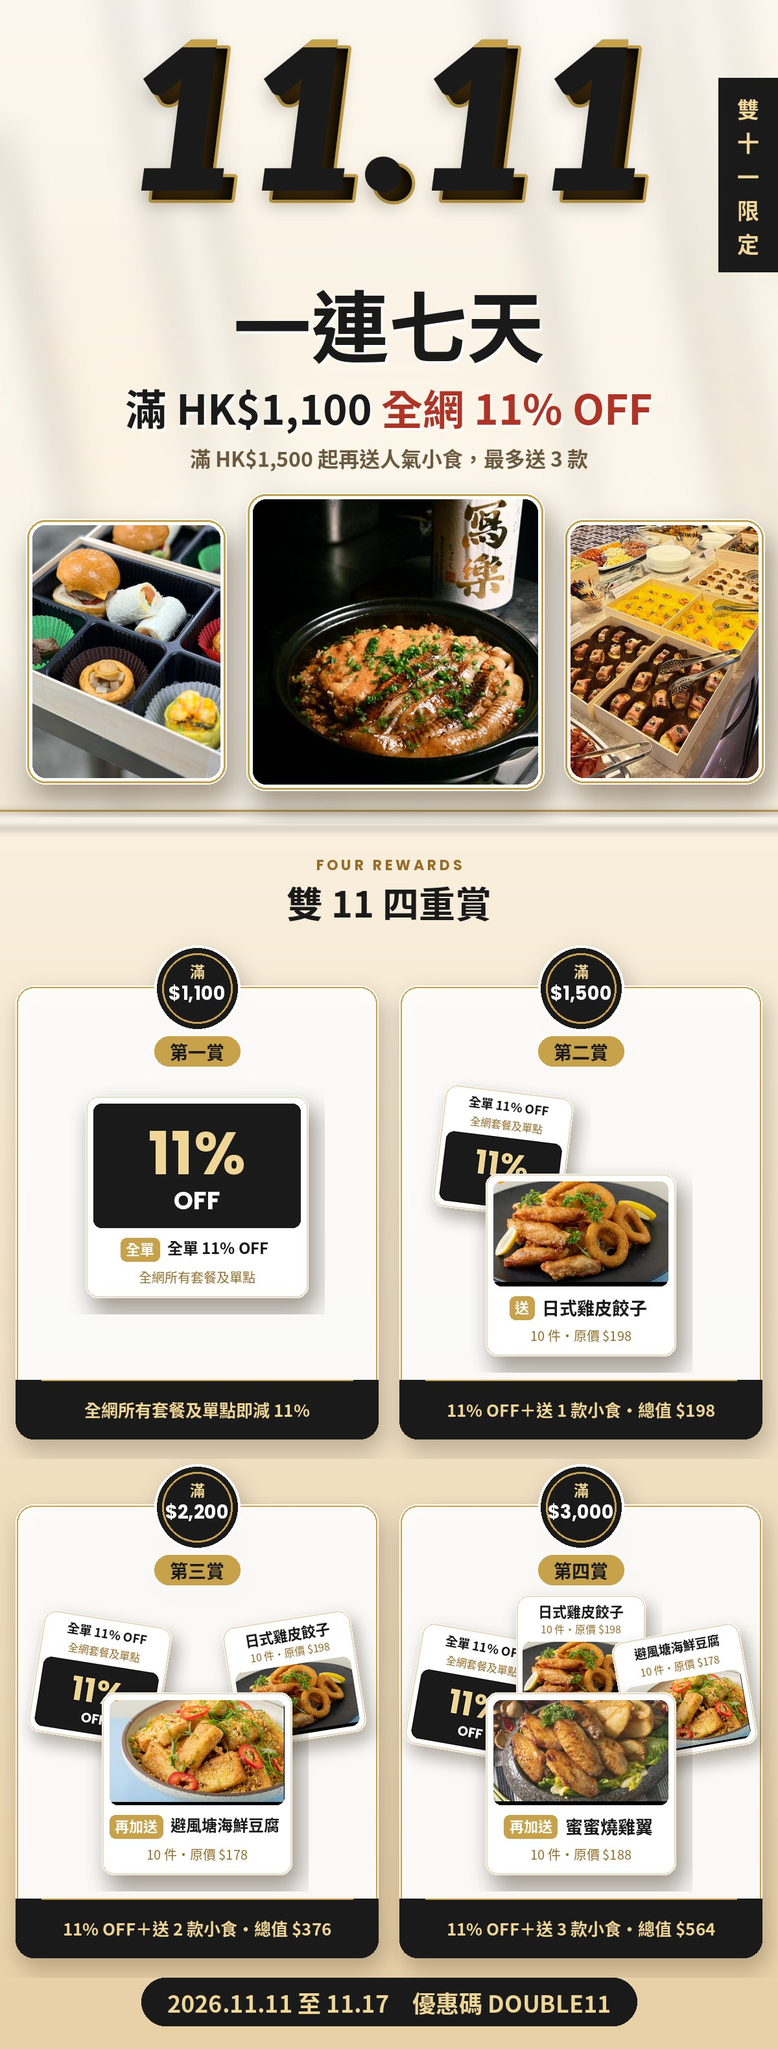
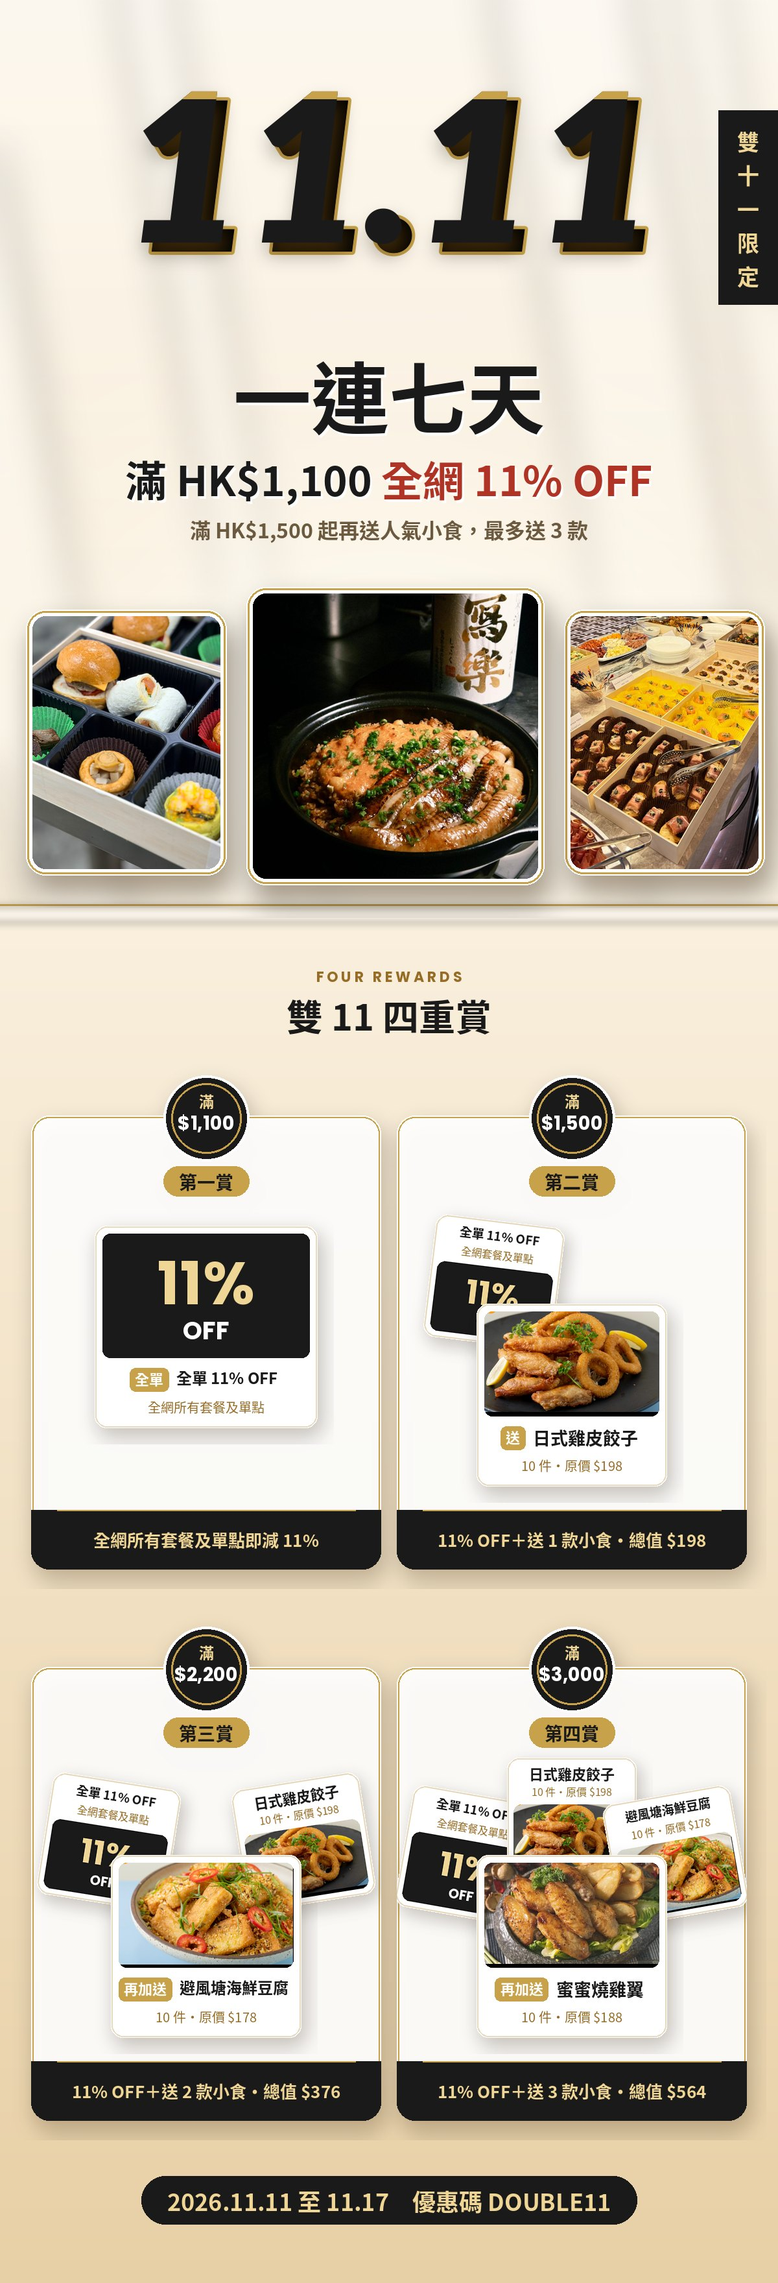
b

diff --git a/1111-2026/make_kv3_backup_v4.py b/1111-2026/make_kv3_backup_v4.py
@@ -1,0 +1,241 @@
+# -*- coding: utf-8 -*-
+"""雙 11 KV v3：方案 3 字體＋兩張完整產品主圖＋四重賞贈品列（圓章完整）
+來源圖：/tmp/kv（網站下載＋客戶提供餐盒相 bento.jpg）；輸出 img/d11-kv.jpg"""
+import os
+from PIL import Image, ImageDraw, ImageFilter, ImageFont, ImageChops
+H = os.path.dirname(os.path.abspath(__file__))
+SRC = '/tmp/kv/'
+W, HH = 1200, 3160
+CJK = '/usr/share/fonts/opentype/noto/NotoSansCJK-Bold.ttc'
+CJKR = '/usr/share/fonts/opentype/noto/NotoSansCJK-Regular.ttc'
+POPB = '/usr/share/fonts/truetype/google-fonts/Poppins-Bold.ttf'
+LATO_BI = '/usr/share/fonts/truetype/lato/Lato-BlackItalic.ttf'
+def f_cjk(s, bold=True): return ImageFont.truetype(CJK if bold else CJKR, s, index=4)
+def f_pop(s): return ImageFont.truetype(POPB, s)
+GOLD_D, GOLD, GOLD_L, INK, RED = (150, 108, 38), (200, 162, 74), (240, 214, 150), (26, 26, 26), (176, 52, 38)
+def lerp(a, b, t): return tuple(int(a[i] + (b[i] - a[i]) * t) for i in range(3))
+def layer(): return Image.new('RGBA', (W, HH), (0, 0, 0, 0))
+SY = 1250
+
+def background():
+    bg = Image.new('RGB', (W, HH)); dd = ImageDraw.Draw(bg)
+    top, mid, bot = (253, 248, 239), (243, 226, 196), (226, 198, 150)
+    for y in range(HH):
+        t = y / HH
+        dd.line([(0, y), (W, y)], fill=lerp(top, mid, t / .6) if t < .6 else lerp(mid, bot, (t - .6) / .4))
+    bg = bg.convert('RGBA')
+    beams = layer(); d = ImageDraw.Draw(beams)
+    for x0, w, a in [(-200, 160, 70), (180, 90, 55), (760, 220, 60), (1040, 80, 45)]:
+        d.polygon([(x0, 0), (x0 + w, 0), (x0 + w + 600, HH), (x0 + 600, HH)], fill=(255, 255, 255, a))
+    bg = Image.alpha_composite(bg, beams.filter(ImageFilter.GaussianBlur(28)))
+    g = Image.new('RGBA', (W, HH), (255, 252, 244, 0)); m = Image.new('L', (W, HH), 0)
+    ImageDraw.Draw(m).ellipse([600 - 520, 1010 - 360, 600 + 520, 1010 + 360], fill=235)
+    g.putalpha(m.filter(ImageFilter.GaussianBlur(170))); bg = Image.alpha_composite(bg, g)
+    st = layer(); sd = ImageDraw.Draw(st)
+    for y in range(SY, HH):
+        sd.line([(0, y), (W, y)], fill=lerp((250, 240, 222), (232, 208, 166), (y - SY) / (HH - SY)) + (255,))
+    bg = Image.alpha_composite(bg, st); ImageDraw.Draw(bg).line([(0, SY), (W, SY)], fill=GOLD + (255,), width=3)
+    hl = layer(); ImageDraw.Draw(hl).rectangle([0, SY + 3, W, SY + 26], fill=(255, 255, 255, 120))
+    return Image.alpha_composite(bg, hl.filter(ImageFilter.GaussianBlur(6)))
+
+def title(bg):  # 方案 3：粗體雙層
+    f = ImageFont.truetype(LATO_BI, 320); bb = f.getbbox('11.11')
+    tx, ty = (W - (bb[2] - bb[0])) // 2 - bb[0], 60 - bb[1]
+    d = ImageDraw.Draw(bg); d.text((tx + 16, ty + 14), '11.11', font=f, fill=(0, 0, 0, 0), stroke_width=5, stroke_fill=GOLD)
+    sh = layer(); ImageDraw.Draw(sh).text((tx + 6, ty + 18), '11.11', font=f, fill=(60, 40, 10, 90))
+    bg = Image.alpha_composite(bg, sh.filter(ImageFilter.GaussianBlur(14)))
+    ImageDraw.Draw(bg).text((tx, ty), '11.11', font=f, fill=INK)
+    m = Image.new('L', (W, HH), 0); ImageDraw.Draw(m).text((tx, ty), '11.11', font=f, fill=255)
+    hi = Image.new('RGBA', (W, HH), (0, 0, 0, 0)); ImageDraw.Draw(hi).rectangle([0, ty + bb[1], W, ty + bb[1] + 12], fill=GOLD + (255,))
+    hi.putalpha(ImageChops.multiply(hi.getchannel('A'), m))
+    return Image.alpha_composite(bg, hi)
+
+def line(d, parts, font, y, sh=True):
+    total = sum(d.textlength(p, font=font) for p, _ in parts); x = (W - total) / 2
+    for p, c in parts:
+        if sh: d.text((x + 3, y + 4), p, font=font, fill=(255, 255, 255))
+        d.text((x, y), p, font=font, fill=c); x += d.textlength(p, font=font)
+
+def headline(bg):
+    d = ImageDraw.Draw(bg)
+    line(d, [('一連七天', INK)], f_cjk(120), 410)
+    line(d, [('滿 HK$1,100 ', INK), ('全網 11% OFF', RED)], f_cjk(64), 580)
+    fs = f_cjk(32); sub = '滿 HK$1,500 起再送人氣小食，最多送 3 款'
+    d.text(((W - d.textlength(sub, font=fs)) / 2, 682), sub, font=fs, fill=(107, 90, 63))
+    return bg
+
+def framed(im, w, rot, border=16):
+    im = im.resize((w, int(w * im.height / im.width)), Image.LANCZOS).convert('RGBA')
+    m = Image.new('L', im.size, 0); ImageDraw.Draw(m).rounded_rectangle([0, 0, im.width - 1, im.height - 1], 18, fill=255); im.putalpha(m)
+    fw, fh = im.width + border * 2, im.height + border * 2
+    fr = Image.new('RGBA', (fw, fh), (0, 0, 0, 0))
+    mk = Image.new('L', (fw, fh), 0); ImageDraw.Draw(mk).rounded_rectangle([0, 0, fw - 1, fh - 1], 28, fill=255)
+    b = Image.new('RGBA', (fw, fh), (255, 255, 255, 255)); b.putalpha(mk); fr.alpha_composite(b)
+    ImageDraw.Draw(fr).rounded_rectangle([3, 3, fw - 4, fh - 4], 26, outline=GOLD, width=3)
+    fr.alpha_composite(im, (border, border))
+    fr = fr.rotate(rot, resample=Image.BICUBIC, expand=True)
+    s = Image.new('RGBA', (fr.width + 100, fr.height + 100), (0, 0, 0, 0))
+    s.paste((70, 45, 15, 120), (62, 78), fr.getchannel('A')); s = s.filter(ImageFilter.GaussianBlur(20)); s.alpha_composite(fr, (50, 50))
+    return s
+
+def _src3():
+    pot = Image.open(SRC + 'd11src-c3.jpg').convert('RGB').crop((120, 585, 1600, 1600))
+    bento = Image.open(SRC + 'bento.jpg').convert('RGB').crop((0, 160, 1200, 1600))
+    buf = Image.open(SRC + 'photo3.jpg').convert('RGB').crop((0, 820, 1920, 2560))
+    return pot, bento, buf
+def fit(im, w, h):  # 置中裁切到指定比例
+    r = w / h
+    if im.width / im.height > r:
+        nw = int(im.height * r); x = (im.width - nw) // 2; im = im.crop((x, 0, x + nw, im.height))
+    else:
+        nh = int(im.width / r); y = (im.height - nh) // 2; im = im.crop((0, y, im.width, y + nh))
+    return im.resize((w, h), Image.LANCZOS)
+def tile(im, w, h, radius=20, border=10, rot=0, shadow=True):
+    im = fit(im, w, h).convert('RGBA')
+    m = Image.new('L', im.size, 0); ImageDraw.Draw(m).rounded_rectangle([0, 0, w - 1, h - 1], radius, fill=255); im.putalpha(m)
+    fw, fh = w + 2 * border, h + 2 * border
+    fr = Image.new('RGBA', (fw, fh), (0, 0, 0, 0))
+    mk = Image.new('L', (fw, fh), 0); ImageDraw.Draw(mk).rounded_rectangle([0, 0, fw - 1, fh - 1], radius + border, fill=255)
+    bb = Image.new('RGBA', (fw, fh), (255, 255, 255, 255)); bb.putalpha(mk); fr.alpha_composite(bb)
+    ImageDraw.Draw(fr).rounded_rectangle([2, 2, fw - 3, fh - 3], radius + border - 2, outline=GOLD, width=3)
+    fr.alpha_composite(im, (border, border))
+    if rot: fr = fr.rotate(rot, resample=Image.BICUBIC, expand=True)
+    s = Image.new('RGBA', (fr.width + 100, fr.height + 100), (0, 0, 0, 0))
+    if shadow: s.paste((70, 45, 15, 115), (60, 76), fr.getchannel('A')); s = s.filter(ImageFilter.GaussianBlur(20))
+    s.alpha_composite(fr, (50, 50)); return s
+def put(bg, t, x, y): bg.alpha_composite(t, (x - 50, y - 50))
+
+HERO_MODE = os.environ.get('HERO', 'A')
+def heroes(bg):
+    pot, bento, buf = _src3()
+    if HERO_MODE == 'A':   # 三聯直幅：中間較大較高
+        pot2 = Image.open(SRC + 'pot1024.jpg').convert('RGB')
+        put(bg, tile(bento, 290, 390, rot=0), 40, 800)
+        put(bg, tile(buf, 290, 390, rot=0), 870, 800)
+        put(bg, tile(pot2, 440, 440, rot=0), 380, 760)
+    elif HERO_MODE == 'B': # 編輯式拼貼：左大圖＋右兩格，直角對齊
+        put(bg, tile(pot, 660, 480, radius=14), 40, 750)
+        put(bg, tile(bento, 420, 226, radius=14), 730, 750)
+        put(bg, tile(buf, 420, 226, radius=14), 730, 1004)
+    else:                  # 扇形疊卡：三張打斜重疊，中間最前
+        put(bg, tile(bento, 340, 420, rot=9), 700, 760)
+        put(bg, tile(buf, 340, 420, rot=-9), 70, 760)
+        put(bg, tile(pot, 480, 400, rot=0), 360, 790)
+    return bg
+
+ITEMS = {
+ 'off': None,
+ 'a1600': ('d11src-g1.png', (90, 90, 1042, 640), '日式雞皮餃子', 198),
+ 'a1500': ('d11src-g3.png', (100, 90, 1042, 640), '避風塘海鮮豆腐', 178),
+ 'a0500': ('d11src-g2.jpg', (40, 60, 1024, 630), '蜜蜜燒雞翼', 188),
+}
+def _photo(key, w, h):
+    src, crop, _, _ = ITEMS[key]
+    im = Image.open(SRC + src).convert('RGB').crop(crop)
+    th = int(w * im.height / im.width); im = im.resize((w, th), Image.LANCZOS)
+    top = max(0, (th - h) // 2); im = im.crop((0, top, w, top + h)).convert('RGBA')
+    m = Image.new('L', im.size, 0); ImageDraw.Draw(m).rounded_rectangle([0, 0, w - 1, h - 1], 12, fill=255); im.putalpha(m); return im
+def _off_block(d, x, y, w, h, big):
+    d.rounded_rectangle([x, y, x + w - 1, y + h - 1], 12, fill=INK)
+    f1 = f_pop(int(h * .48)); t = '11%'; d.text((x + (w - d.textlength(t, font=f1)) / 2, y + h * .06), t, font=f1, fill=GOLD_L)
+    f2 = f_pop(int(h * .2)); t = 'OFF'; d.text((x + (w - d.textlength(t, font=f2)) / 2, y + h * .64), t, font=f2, fill=(255, 255, 255))
+def _card_canvas(cw, ch):
+    c = Image.new('RGBA', (cw, ch), (0, 0, 0, 0)); mk = Image.new('L', (cw, ch), 0)
+    ImageDraw.Draw(mk).rounded_rectangle([0, 0, cw - 1, ch - 1], 18, fill=255)
+    b = Image.new('RGBA', (cw, ch), (255, 255, 255, 255)); b.putalpha(mk); c.alpha_composite(b)
+    ImageDraw.Draw(c).rounded_rectangle([1, 1, cw - 2, ch - 2], 18, outline=(232, 218, 190), width=2); return c
+def back_card(key, w=180):  # 後排：標題在上，壓在前卡後仍看得到
+    pad = 10; ph = int(w * .6); cap = 62; cw, ch = w + 2 * pad, cap + ph + 2 * pad
+    c = _card_canvas(cw, ch); d = ImageDraw.Draw(c)
+    if key == 'off':
+        name, sub = '全單 11% OFF', '全網套餐及單點'
+    else:
+        name, sub = ITEMS[key][2], f'10 件・原價 ${ITEMS[key][3]}'
+    fn = f_cjk(22 if len(name) <= 6 else 19); fs = f_cjk(16, False)
+    d.text(((cw - d.textlength(name, font=fn)) / 2, pad - 2), name, font=fn, fill=INK)
+    d.text(((cw - d.textlength(sub, font=fs)) / 2, pad + 30), sub, font=fs, fill=GOLD_D)
+    if key == 'off': _off_block(d, pad, pad + cap, w, ph, False)
+    else: c.alpha_composite(_photo(key, w, ph), (pad, pad + cap))
+    return c
+def front_card(key, verb, w=260):
+    pad = 12; ph = int(w * .6); lab = 96; cw, ch = w + 2 * pad, ph + 2 * pad + lab
+    c = _card_canvas(cw, ch); d = ImageDraw.Draw(c)
+    if key == 'off':
+        _off_block(d, pad, pad, w, ph, True); name, sub = '全單 11% OFF', '全網所有套餐及單點'
+    else:
+        c.alpha_composite(_photo(key, w, ph), (pad, pad)); name, sub = ITEMS[key][2], f'10 件・原價 ${ITEMS[key][3]}'
+    fv = f_cjk(22); fn = f_cjk(27 if len(name) <= 6 else 24)
+    tw = d.textlength(verb, font=fv); nw = d.textlength(name, font=fn)
+    x = (cw - (tw + 16 + 12 + nw)) / 2; y = pad + ph + 12
+    d.rounded_rectangle([x - 4, y + 3, x + tw + 12, y + 39], 9, fill=GOLD); d.text((x + 4, y + 3), verb, font=fv, fill=(255, 255, 255))
+    d.text((x + tw + 24, y), name, font=fn, fill=INK)
+    fs = f_cjk(20, False); d.text(((cw - d.textlength(sub, font=fs)) / 2, y + 48), sub, font=fs, fill=GOLD_D)
+    return c
+def _float(c, rot, blur=12, off=(8, 14), alpha=95):
+    c = c.rotate(rot, resample=Image.BICUBIC, expand=True)
+    s = Image.new('RGBA', (c.width + 50, c.height + 50), (0, 0, 0, 0))
+    s.paste((70, 45, 15, alpha), (25 + off[0], 25 + off[1]), c.getchannel('A')); s = s.filter(ImageFilter.GaussianBlur(blur)); s.alpha_composite(c, (25, 25)); return s
+TIER = [  # (第幾賞, 金額, 後排, 前卡, 動詞, 總結)
+ ('第一賞', '1,100', [], 'off', '全單', '全網所有套餐及單點即減 11%'),
+ ('第二賞', '1,500', ['off'], 'a1600', '送', '11% OFF＋送 1 款小食・總值 $198'),
+ ('第三賞', '2,200', ['off', 'a1600'], 'a1500', '再加送', '11% OFF＋送 2 款小食・總值 $376'),
+ ('第四賞', '3,000', ['off', 'a1600', 'a1500'], 'a0500', '再加送', '11% OFF＋送 3 款小食・總值 $564'),
+]
+BACK_POS = {0: [], 1: [(-120, 10, -7)], 2: [(-150, 20, -9), (150, 20, 9)], 3: [(-160, 40, -10), (0, 0, 0), (160, 40, 10)]}
+PW, PH = 560, 700
+def panel(lv, amt, backs, front, verb, summ):
+    p = Image.new('RGBA', (PW, PH + 80), (0, 0, 0, 0)); T = 80
+    mk = Image.new('L', p.size, 0); ImageDraw.Draw(mk).rounded_rectangle([0, T, PW - 1, T + PH - 1], 28, fill=255)
+    b = Image.new('RGBA', p.size, (255, 255, 255, 235)); b.putalpha(ImageChops.multiply(mk, Image.new('L', p.size, 235))); p.alpha_composite(b)
+    ImageDraw.Draw(p).rounded_rectangle([2, T + 2, PW - 3, T + PH - 3], 26, outline=GOLD, width=2)
+    cx = PW // 2; top = T + 140
+    for key, (dx, dy, r) in zip(backs, BACK_POS[len(backs)]):
+        c = _float(back_card(key), r); p.alpha_composite(c, (int(cx + dx - c.width / 2), top + dy - 25))
+    fy = top + (150 if backs else 30)
+    c = _float(front_card(front, verb, 270 if backs else 320), 0, 16, (10, 18), 120); p.alpha_composite(c, (int(cx - c.width / 2), fy - 25))
+    d = ImageDraw.Draw(p)
+    # 底部深色資訊條（另一層背景）
+    band = Image.new('RGBA', p.size, (0, 0, 0, 0)); bd = ImageDraw.Draw(band)
+    bd.rounded_rectangle([0, T + PH - 92, PW - 1, T + PH - 1], 28, fill=INK + (255,)); bd.rectangle([0, T + PH - 92, PW - 1, T + PH - 60], fill=INK + (255,))
+    band.putalpha(ImageChops.multiply(band.getchannel('A'), mk)); p.alpha_composite(band); d = ImageDraw.Draw(p)
+    d.line([(40, T + PH - 92), (PW - 40, T + PH - 92)], fill=GOLD, width=2)
+    fs = f_cjk(26); d.text(((PW - d.textlength(summ, font=fs)) / 2, T + PH - 66), summ, font=fs, fill=GOLD_L)
+    # 第幾賞：放在圓章下面，金色膠囊突出
+    fl = f_cjk(28); lw = d.textlength(lv, font=fl); ly = T + 78
+    d.rounded_rectangle([cx - lw / 2 - 24, ly, cx + lw / 2 + 24, ly + 46], 23, fill=GOLD)
+    d.text((cx - lw / 2, ly + 3), lv, font=fl, fill=INK)
+    R = 62; sx, sy = cx, T + 4
+    d.ellipse([sx - R - 4, sy - R - 4, sx + R + 4, sy + R + 4], fill=(255, 255, 255))
+    d.ellipse([sx - R, sy - R, sx + R, sy + R], fill=INK); d.ellipse([sx - R + 8, sy - R + 8, sx + R - 8, sy + R - 8], outline=GOLD, width=3)
+    fa, fb = f_cjk(23), f_pop(29)
+    d.text((sx - d.textlength('滿', font=fa) / 2, sy - 44), '滿', font=fa, fill=GOLD_L)
+    d.text((sx - d.textlength('$' + amt, font=fb) / 2, sy - 13), '$' + amt, font=fb, fill=(255, 255, 255))
+    return p
+ROW_Y = [1440, 2240]
+def rewards(bg):
+    d = ImageDraw.Draw(bg)
+    fe = f_pop(22); s = 'F O U R   R E W A R D S'
+    d.text(((W - d.textlength(s, font=fe)) / 2, 1318), s, font=fe, fill=GOLD_D)
+    line(d, [('雙 11 四重賞', INK)], f_cjk(56), 1350, sh=False)
+    pos = [(24, ROW_Y[0]), (616, ROW_Y[0]), (24, ROW_Y[1]), (616, ROW_Y[1])]
+    for t, (x, y) in zip(TIER, pos):
+        p = panel(*t); sh = Image.new('RGBA', (p.width + 60, p.height + 60), (0, 0, 0, 0))
+        sh.paste((70, 45, 15, 70), (36, 46), p.getchannel('A')); sh = sh.filter(ImageFilter.GaussianBlur(16)); sh.alpha_composite(p, (30, 30))
+        bg.alpha_composite(sh, (x - 30, y - 30))
+    return bg
+
+def tab_and_pill(bg):
+    tab = Image.new('RGBA', (92, 300), INK + (255,)); td = ImageDraw.Draw(tab); fv = f_cjk(34)
+    for i, ch_ in enumerate('雙十一限定'): td.text(((92 - td.textlength(ch_, font=fv)) / 2, 22 + i * 52), ch_, font=fv, fill=GOLD_L)
+    bg.alpha_composite(tab, (W - 92, 120))
+    d = ImageDraw.Draw(bg); fp = f_cjk(36); pill = '2026.11.11 至 11.17　優惠碼 DOUBLE11'
+    pw = d.textlength(pill, font=fp) + 80; x0 = (W - pw) / 2; y0 = 3050
+    d.rounded_rectangle([x0, y0, x0 + pw, y0 + 74], 37, fill=INK); d.text((x0 + 40, y0 + 12), pill, font=fp, fill=GOLD_L)
+    return bg
+
+if __name__ == '__main__':
+    bg = background(); bg = title(bg); bg = headline(bg); bg = heroes(bg); bg = rewards(bg); bg = tab_and_pill(bg)
+    im = bg.convert('RGB'); im.save(os.path.join(H, 'img', f'kv-hero-{HERO_MODE}.jpg'), quality=86, optimize=True, progressive=True)
+    im.save(os.path.join(H, 'img', 'd11-kv.jpg'), quality=86, optimize=True, progressive=True)
+    im.resize((600, 1580)).save('/sessions/great-festive-darwin/mnt/outputs/kv4.jpg', quality=85)
+    print('ok', os.path.getsize(os.path.join(H, 'img', 'd11-kv.jpg')) // 1024, 'KB')

diff --git a/1111-2026/make_kv3.py b/1111-2026/make_kv3.py
@@ -5,7 +5,7 @@ import os
 from PIL import Image, ImageDraw, ImageFilter, ImageFont, ImageChops
 H = os.path.dirname(os.path.abspath(__file__))
 SRC = '/tmp/kv/'
-W, HH = 1200, 3160
+W, HH = 1200, 3520
 CJK = '/usr/share/fonts/opentype/noto/NotoSansCJK-Bold.ttc'
 CJKR = '/usr/share/fonts/opentype/noto/NotoSansCJK-Regular.ttc'
 POPB = '/usr/share/fonts/truetype/google-fonts/Poppins-Bold.ttf'
@@ -15,7 +15,7 @@ def f_pop(s): return ImageFont.truetype(POPB, s)
 GOLD_D, GOLD, GOLD_L, INK, RED = (150, 108, 38), (200, 162, 74), (240, 214, 150), (26, 26, 26), (176, 52, 38)
 def lerp(a, b, t): return tuple(int(a[i] + (b[i] - a[i]) * t) for i in range(3))
 def layer(): return Image.new('RGBA', (W, HH), (0, 0, 0, 0))
-SY = 1250
+SY = 1395
 
 def background():
     bg = Image.new('RGB', (W, HH)); dd = ImageDraw.Draw(bg)
@@ -29,7 +29,7 @@ def background():
         d.polygon([(x0, 0), (x0 + w, 0), (x0 + w + 600, HH), (x0 + 600, HH)], fill=(255, 255, 255, a))
     bg = Image.alpha_composite(bg, beams.filter(ImageFilter.GaussianBlur(28)))
     g = Image.new('RGBA', (W, HH), (255, 252, 244, 0)); m = Image.new('L', (W, HH), 0)
-    ImageDraw.Draw(m).ellipse([600 - 520, 1010 - 360, 600 + 520, 1010 + 360], fill=235)
+    ImageDraw.Draw(m).ellipse([600 - 520, 1130 - 360, 600 + 520, 1130 + 360], fill=235)
     g.putalpha(m.filter(ImageFilter.GaussianBlur(170))); bg = Image.alpha_composite(bg, g)
     st = layer(); sd = ImageDraw.Draw(st)
     for y in range(SY, HH):
@@ -40,7 +40,7 @@ def background():
 
 def title(bg):  # 方案 3：粗體雙層
     f = ImageFont.truetype(LATO_BI, 320); bb = f.getbbox('11.11')
-    tx, ty = (W - (bb[2] - bb[0])) // 2 - bb[0], 60 - bb[1]
+    tx, ty = (W - (bb[2] - bb[0])) // 2 - bb[0], 140 - bb[1]
     d = ImageDraw.Draw(bg); d.text((tx + 16, ty + 14), '11.11', font=f, fill=(0, 0, 0, 0), stroke_width=5, stroke_fill=GOLD)
     sh = layer(); ImageDraw.Draw(sh).text((tx + 6, ty + 18), '11.11', font=f, fill=(60, 40, 10, 90))
     bg = Image.alpha_composite(bg, sh.filter(ImageFilter.GaussianBlur(14)))
@@ -58,10 +58,10 @@ def line(d, parts, font, y, sh=True):
 
 def headline(bg):
     d = ImageDraw.Draw(bg)
-    line(d, [('一連七天', INK)], f_cjk(120), 410)
-    line(d, [('滿 HK$1,100 ', INK), ('全網 11% OFF', RED)], f_cjk(64), 580)
+    line(d, [('一連七天', INK)], f_cjk(120), 520)
+    line(d, [('滿 HK$1,100 ', INK), ('全網 11% OFF', RED)], f_cjk(64), 690)
     fs = f_cjk(32); sub = '滿 HK$1,500 起再送人氣小食，最多送 3 款'
-    d.text(((W - d.textlength(sub, font=fs)) / 2, 682), sub, font=fs, fill=(107, 90, 63))
+    d.text(((W - d.textlength(sub, font=fs)) / 2, 792), sub, font=fs, fill=(107, 90, 63))
     return bg
 
 def framed(im, w, rot, border=16):
@@ -110,9 +110,9 @@ def heroes(bg):
     pot, bento, buf = _src3()
     if HERO_MODE == 'A':   # 三聯直幅：中間較大較高
         pot2 = Image.open(SRC + 'pot1024.jpg').convert('RGB')
-        put(bg, tile(bento, 290, 390, rot=0), 40, 800)
-        put(bg, tile(buf, 290, 390, rot=0), 870, 800)
-        put(bg, tile(pot2, 440, 440, rot=0), 380, 760)
+        put(bg, tile(bento, 290, 390, rot=0), 40, 940)
+        put(bg, tile(buf, 290, 390, rot=0), 870, 940)
+        put(bg, tile(pot2, 440, 440, rot=0), 380, 905)
     elif HERO_MODE == 'B': # 編輯式拼貼：左大圖＋右兩格，直角對齊
         put(bg, tile(pot, 660, 480, radius=14), 40, 750)
         put(bg, tile(bento, 420, 226, radius=14), 730, 750)
@@ -171,7 +171,7 @@ def front_card(key, verb, w=260):
     d.text((x + tw + 24, y), name, font=fn, fill=INK)
     fs = f_cjk(20, False); d.text(((cw - d.textlength(sub, font=fs)) / 2, y + 48), sub, font=fs, fill=GOLD_D)
     return c
-def _float(c, rot, blur=12, off=(8, 14), alpha=95):
+def _float(c, rot, blur=12, off=(6, 10), alpha=65):
     c = c.rotate(rot, resample=Image.BICUBIC, expand=True)
     s = Image.new('RGBA', (c.width + 50, c.height + 50), (0, 0, 0, 0))
     s.paste((70, 45, 15, alpha), (25 + off[0], 25 + off[1]), c.getchannel('A')); s = s.filter(ImageFilter.GaussianBlur(blur)); s.alpha_composite(c, (25, 25)); return s
@@ -182,7 +182,7 @@ TIER = [  # (第幾賞, 金額, 後排, 前卡, 動詞, 總結)
  ('第四賞', '3,000', ['off', 'a1600', 'a1500'], 'a0500', '再加送', '11% OFF＋送 3 款小食・總值 $564'),
 ]
 BACK_POS = {0: [], 1: [(-120, 10, -7)], 2: [(-150, 20, -9), (150, 20, 9)], 3: [(-160, 40, -10), (0, 0, 0), (160, 40, 10)]}
-PW, PH = 560, 700
+PW, PH = 540, 700
 def panel(lv, amt, backs, front, verb, summ):
     p = Image.new('RGBA', (PW, PH + 80), (0, 0, 0, 0)); T = 80
     mk = Image.new('L', p.size, 0); ImageDraw.Draw(mk).rounded_rectangle([0, T, PW - 1, T + PH - 1], 28, fill=255)
@@ -192,7 +192,7 @@ def panel(lv, amt, backs, front, verb, summ):
     for key, (dx, dy, r) in zip(backs, BACK_POS[len(backs)]):
         c = _float(back_card(key), r); p.alpha_composite(c, (int(cx + dx - c.width / 2), top + dy - 25))
     fy = top + (150 if backs else 30)
-    c = _float(front_card(front, verb, 270 if backs else 320), 0, 16, (10, 18), 120); p.alpha_composite(c, (int(cx - c.width / 2), fy - 25))
+    c = _float(front_card(front, verb, 270 if backs else 320), 0, 14, (6, 12), 70); p.alpha_composite(c, (int(cx - c.width / 2), fy - 25))
     d = ImageDraw.Draw(p)
     # 底部深色資訊條（另一層背景）
     band = Image.new('RGBA', p.size, (0, 0, 0, 0)); bd = ImageDraw.Draw(band)
@@ -211,13 +211,13 @@ def panel(lv, amt, backs, front, verb, summ):
     d.text((sx - d.textlength('滿', font=fa) / 2, sy - 44), '滿', font=fa, fill=GOLD_L)
     d.text((sx - d.textlength('$' + amt, font=fb) / 2, sy - 13), '$' + amt, font=fb, fill=(255, 255, 255))
     return p
-ROW_Y = [1440, 2240]
+ROW_Y = [1640, 2490]
 def rewards(bg):
     d = ImageDraw.Draw(bg)
     fe = f_pop(22); s = 'F O U R   R E W A R D S'
-    d.text(((W - d.textlength(s, font=fe)) / 2, 1318), s, font=fe, fill=GOLD_D)
-    line(d, [('雙 11 四重賞', INK)], f_cjk(56), 1350, sh=False)
-    pos = [(24, ROW_Y[0]), (616, ROW_Y[0]), (24, ROW_Y[1]), (616, ROW_Y[1])]
+    d.text(((W - d.textlength(s, font=fe)) / 2, 1490), s, font=fe, fill=GOLD_D)
+    line(d, [('雙 11 四重賞', INK)], f_cjk(56), 1524, sh=False)
+    pos = [(48, ROW_Y[0]), (612, ROW_Y[0]), (48, ROW_Y[1]), (612, ROW_Y[1])]
     for t, (x, y) in zip(TIER, pos):
         p = panel(*t); sh = Image.new('RGBA', (p.width + 60, p.height + 60), (0, 0, 0, 0))
         sh.paste((70, 45, 15, 70), (36, 46), p.getchannel('A')); sh = sh.filter(ImageFilter.GaussianBlur(16)); sh.alpha_composite(p, (30, 30))
@@ -227,9 +227,9 @@ def rewards(bg):
 def tab_and_pill(bg):
     tab = Image.new('RGBA', (92, 300), INK + (255,)); td = ImageDraw.Draw(tab); fv = f_cjk(34)
     for i, ch_ in enumerate('雙十一限定'): td.text(((92 - td.textlength(ch_, font=fv)) / 2, 22 + i * 52), ch_, font=fv, fill=GOLD_L)
-    bg.alpha_composite(tab, (W - 92, 120))
+    bg.alpha_composite(tab, (W - 92, 170))
     d = ImageDraw.Draw(bg); fp = f_cjk(36); pill = '2026.11.11 至 11.17　優惠碼 DOUBLE11'
-    pw = d.textlength(pill, font=fp) + 80; x0 = (W - pw) / 2; y0 = 3050
+    pw = d.textlength(pill, font=fp) + 80; x0 = (W - pw) / 2; y0 = 3355
     d.rounded_rectangle([x0, y0, x0 + pw, y0 + 74], 37, fill=INK); d.text((x0 + 40, y0 + 12), pill, font=fp, fill=GOLD_L)
     return bg
 
@@ -237,5 +237,5 @@ if __name__ == '__main__':
     bg = background(); bg = title(bg); bg = headline(bg); bg = heroes(bg); bg = rewards(bg); bg = tab_and_pill(bg)
     im = bg.convert('RGB'); im.save(os.path.join(H, 'img', f'kv-hero-{HERO_MODE}.jpg'), quality=86, optimize=True, progressive=True)
     im.save(os.path.join(H, 'img', 'd11-kv.jpg'), quality=86, optimize=True, progressive=True)
-    im.resize((600, 1580)).save('/sessions/great-festive-darwin/mnt/outputs/kv4.jpg', quality=85)
+    im.resize((600, 1760)).save('/sessions/great-festive-darwin/mnt/outputs/kv4.jpg', quality=85)
     print('ok', os.path.getsize(os.path.join(H, 'img', 'd11-kv.jpg')) // 1024, 'KB')
